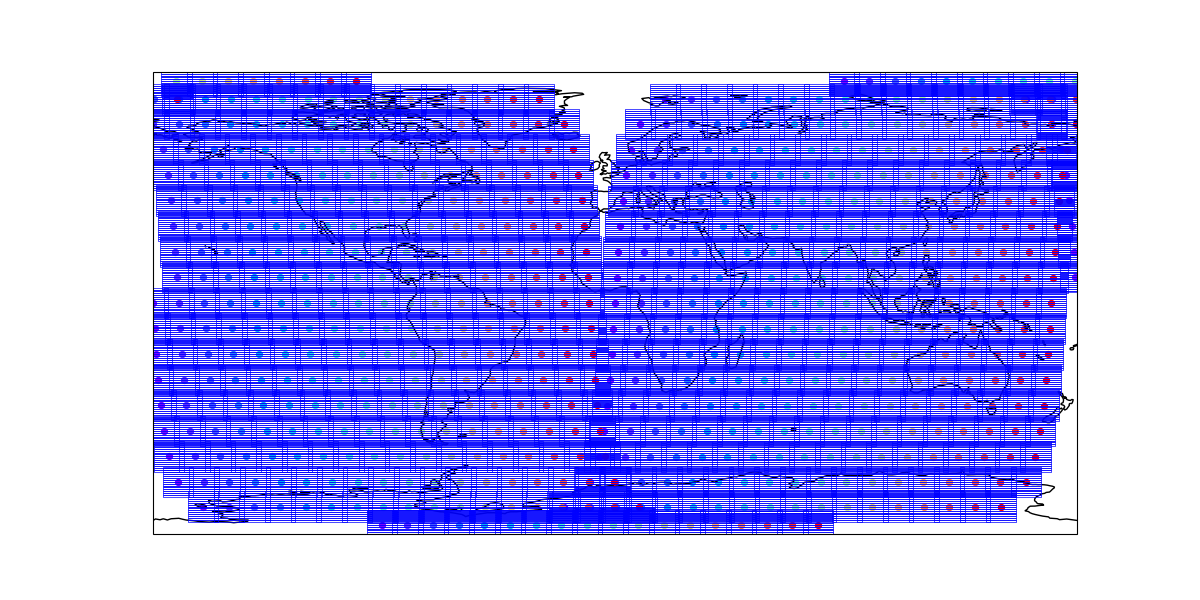
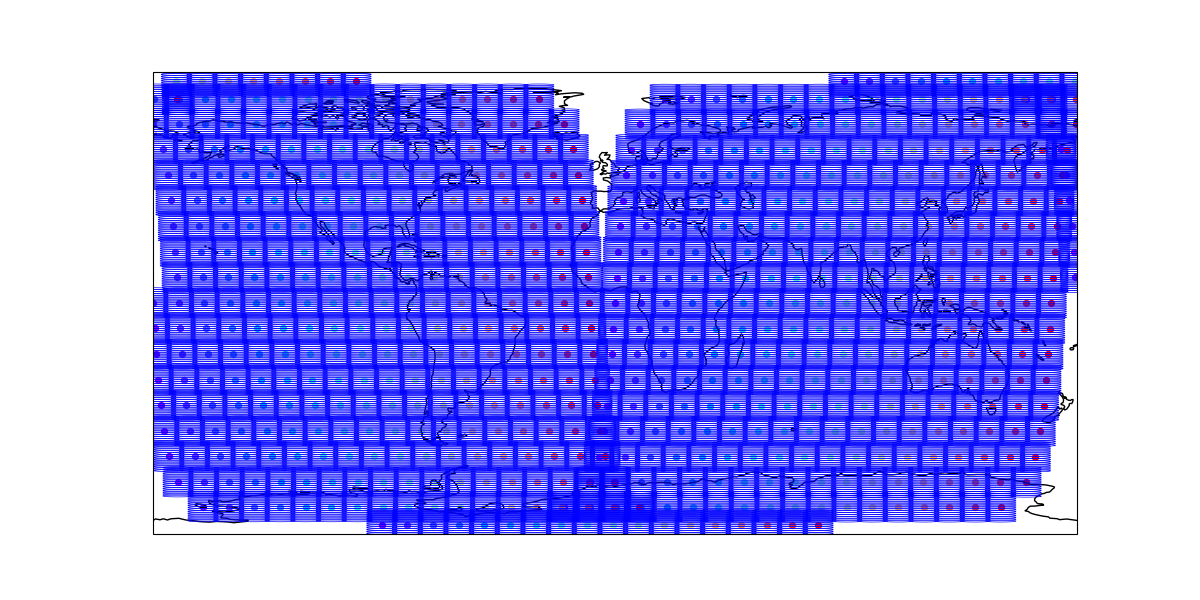
rect to Eclipse

diff --git a/LEOEnvironment.py b/LEOEnvironment.py
@@ -17,6 +17,9 @@ from shapely.geometry.polygon import Polygon
 from cartopy.feature import ShapelyFeature
 import matplotlib.patches as mpatches
 from shapely.geometry import box
+from shapely.geometry import Polygon
+from shapely.affinity import scale, rotate, translate
+
 
 ###############################################################################
 #################################    Simpy    #################################
@@ -145,6 +148,17 @@ class Beam:
         self.capacity = capacity
         self.snr = snr
         self.id = id  # Optional: unique identifier for the beam
+        semi_axis_x = self.width_deg / 2.0
+        semi_axis_y = self.height_deg / 2.0
+
+        self.semi_major_axis = max(semi_axis_x, semi_axis_y)
+        self.semi_minor_axis = min(semi_axis_x, semi_axis_y)
+        if self.width_deg >= self.height_deg:
+            # Major axis is horizontal (along longitude)
+            self.orientation_angle = 0.0
+        else:
+            # Major axis is vertical (along latitude)
+            self.orientation_angle = 90.0
 
     def get_footprint(self):
         min_lon = self.center_lon - self.width_deg / 2
@@ -152,6 +166,37 @@ class Beam:
         min_lat = self.center_lat - self.height_deg / 2
         max_lat = self.center_lat + self.height_deg / 2
         return box(min_lon, min_lat, max_lon, max_lat)
+    
+    def get_footprint_eclipse(self, num_segments=100):
+        # Create a circle, then scale and rotate it to form an ellipse
+        # This approach is often easier than generating points directly for an ellipse
+        
+        # Start with a unit circle centered at (0,0)
+        circle_points = []
+        for i in range(num_segments):
+            angle = 2 * math.pi * i / num_segments
+            x = math.cos(angle)
+            y = math.sin(angle)
+            circle_points.append((x, y))
+        
+        # Create a Polygon from the circle points
+        ellipse = Polygon(circle_points)
+        
+        # Scale to desired semi-axes (assuming semi_major_axis along x, semi_minor_axis along y initially)
+        # Note: You might need to swap these depending on your desired ellipse orientation
+        ellipse = scale(ellipse, self.semi_major_axis, self.semi_minor_axis, origin=(0,0))
+        
+        # Rotate to the desired orientation
+        ellipse = rotate(ellipse, self.orientation_angle, origin=(0,0))
+        
+        # Translate to the beam's center (lon, lat)
+        # Assuming your lon/lat are in degrees and represent a flat projection for this
+        # If working with spherical coordinates, this will be more complex and require
+        # projecting points onto a 2D plane before forming the ellipse, then projecting back,
+        # or using a library that handles geodesic ellipses.
+        ellipse = translate(ellipse, xoff=self.center_lon, yoff=self.center_lat)
+        
+        return ellipse
 
 class Satellite:
     def __init__(self, ID, in_plane, i_in_plane, h, longitude, inclination, n_sat, env, quota = 500, power = 10):
@@ -162,6 +207,7 @@ class Satellite:
         self.h = h                      # Altitude of deployment
         self.power = power              # Transmission power
         self.minElevationAngle = 30     # Value is taken from NGSO constellation design chapter.
+        self.constellationType = "OneWeb"  # Type of constellation, used for beam initialization
 
         # Spherical Coordinates before inclination (r,theta,phi)
         self.r = Re+self.h 
@@ -231,17 +277,34 @@ class Satellite:
         sat_lat = math.degrees(self.latitude)
         sat_lon = math.degrees(self.longitude)
 
-        # The top edge of the coverage square
-        top_lat = sat_lat + (side_km / 2) * deg_per_km
+        if self.constellationType =="OneWeb":  
 
-        for i in range(n_beams):
-            # Each beam's center is halfway between its top and bottom edge
-            beam_top = top_lat - i * beam_height_deg
-            beam_bottom = beam_top - beam_height_deg
-            center_lat = (beam_top + beam_bottom) / 2
-            center_lon = sat_lon
-            beam_id = f"{self.ID}_beam_{i+1}"  # Number beams 1 to 16
-            self.beams.append(Beam(center_lat, center_lon, beam_width_deg, beam_height_deg, id=beam_id))
+            # The top edge of the coverage square
+            top_lat = sat_lat + (side_km / 2) * deg_per_km
+
+            for i in range(n_beams):
+                # Each beam's center is halfway between its top and bottom edge
+                beam_top = top_lat - i * beam_height_deg
+                beam_bottom = beam_top - beam_height_deg
+                center_lat = (beam_top + beam_bottom) / 2
+                center_lon = sat_lon
+                beam_id = f"{self.ID}_beam_{i+1}"  # Number beams 1 to 16
+                self.beams.append(Beam(center_lat, center_lon, beam_width_deg, beam_height_deg, id=beam_id))
+        else:
+            # Center beam
+            self.beams.append(Beam(sat_lat, sat_lon, beam_width_deg, beam_height_deg))
+
+            # Beams on circle
+            n_circle_beams = n_beams - 1
+            radius_deg = beam_height_deg * 4 # Circle radius in degrees
+
+            for i in range(n_circle_beams):
+                angle = 2 * math.pi * i / n_circle_beams
+                dlat = radius_deg * math.cos(angle)
+                dlon = radius_deg * math.sin(angle) / math.cos(math.radians(sat_lat))  # adjust for latitude distortion
+                center_lat = sat_lat + dlat
+                center_lon = sat_lon + dlon
+                self.beams.append(Beam(center_lat, center_lon, beam_width_deg, beam_height_deg))
 
     def maxSlantRange(self):
         """
@@ -286,21 +349,39 @@ class Satellite:
         beam_width_deg = beam_width_km * deg_per_km
         beam_height_deg = beam_height_km * deg_per_km
 
+
+
         sat_lat = math.degrees(self.latitude)
         sat_lon = math.degrees(self.longitude)
+        if self.constellationType =="OneWeb": 
 
-        # The top edge of the coverage square
-        top_lat = sat_lat + (side_km / 2) * deg_per_km
+            # The top edge of the coverage square
+            top_lat = sat_lat + (side_km / 2) * deg_per_km
 
-        for i in range(n_beams):
-            beam_top = top_lat - i * beam_height_deg
-            beam_bottom = beam_top - beam_height_deg
-            center_lat = (beam_top + beam_bottom) / 2
-            center_lon = sat_lon
-            self.beams[i].center_lat = center_lat
-            self.beams[i].center_lon = center_lon
-            self.beams[i].width_deg = beam_width_deg
-            self.beams[i].height_deg = beam_height_deg
+            for i in range(n_beams):
+                beam_top = top_lat - i * beam_height_deg
+                beam_bottom = beam_top - beam_height_deg
+                center_lat = (beam_top + beam_bottom) / 2
+                center_lon = sat_lon
+                self.beams[i].center_lat = center_lat
+                self.beams[i].center_lon = center_lon
+                self.beams[i].width_deg = beam_width_deg
+                self.beams[i].height_deg = beam_height_deg
+        else:
+                # Center beam
+            self.beams[0].center_lat = sat_lat
+            self.beams[0].center_lon = sat_lon
+            # 15 beams around the center in a circle
+            radius_deg = beam_height_deg * 4
+            n_beams_side = n_beams - 1
+            for i in range(0, n_beams_side):
+                angle = 2 * math.pi * i / n_beams_side
+                dlat = radius_deg * math.cos(angle)
+                dlon = radius_deg * math.sin(angle) / math.cos(math.radians(sat_lat))  # adjust for latitude
+                center_lat = sat_lat + dlat
+                center_lon = sat_lon + dlon
+                self.beams[i].center_lat = center_lat
+                self.beams[i].center_lon = center_lon
 
     def adjustDownRate(self):
 
@@ -415,6 +496,7 @@ class Earth:
         [self.total_x, self.total_y] = pop_count_data.size
 
         self.total_cells = self.total_x * self.total_y
+        self.constellationType = "OneWeb"  # Type of constellation, used for beam initialization
 
         # window is a list with the coordinate bounds of our window of interest
         # format for window = [western longitude, eastern longitude, southern latitude, northern latitude]
@@ -477,18 +559,33 @@ class Earth:
         ax.set_global()
 
         colors = matplotlib.cm.rainbow(np.linspace(0, 1, len(self.LEO)))
-            
-        for plane, c in zip(self.LEO, colors):
-            for sat in plane.sats:
-                lon = math.degrees(sat.longitude)
-                lat = math.degrees(sat.latitude)
-                if plotSat:
-                    ax.scatter(lon, lat, color=c, s=18, transform=ccrs.PlateCarree())
-                if plotBeams:
-                    for beam in sat.beams:
-                        footprint = beam.get_footprint()
-                        feature = ShapelyFeature([footprint], ccrs.PlateCarree(), edgecolor='blue', facecolor='none', linewidth=0.5)
-                        ax.add_feature(feature)
+        if self.constellationType =="OneWeb":
+            for plane, c in zip(self.LEO, colors):
+                for sat in plane.sats:
+                    lon = math.degrees(sat.longitude)
+                    lat = math.degrees(sat.latitude)
+                    if plotSat:
+                        ax.scatter(lon, lat, color=c, s=18, transform=ccrs.PlateCarree())
+                    if plotBeams:
+                        for beam in sat.beams:
+                            footprint = beam.get_footprint_eclipse()
+                            feature = ShapelyFeature([footprint], ccrs.PlateCarree(), edgecolor='blue', facecolor='none', linewidth=0.5)
+                            ax.add_feature(feature)
+        else:
+            for plane, c in zip(self.LEO, colors):
+                for sat in plane.sats:
+                    lon = math.degrees(sat.longitude)
+                    lat = math.degrees(sat.latitude)
+                    if plotSat:
+                        ax.scatter(lon, lat, color=c, s=18, transform=ccrs.PlateCarree())
+                    if plotBeams:
+                        sat.beams[len(sat.beams) - 1].center_lon = lon
+                        sat.beams[len(sat.beams) - 1].center_lat = lat
+                        for beam in sat.beams:
+                            beam_lon = beam.center_lon
+                            beam_lat = beam.center_lat
+                            # Draw a cross at the beam center
+                            ax.plot(beam_lon, beam_lat, marker='x', markersize=2, color='blue')
         
         # if plotSat: 
         #     plt.legend([scat2], ['Satellites'], loc=3, prop={'size': 7})
